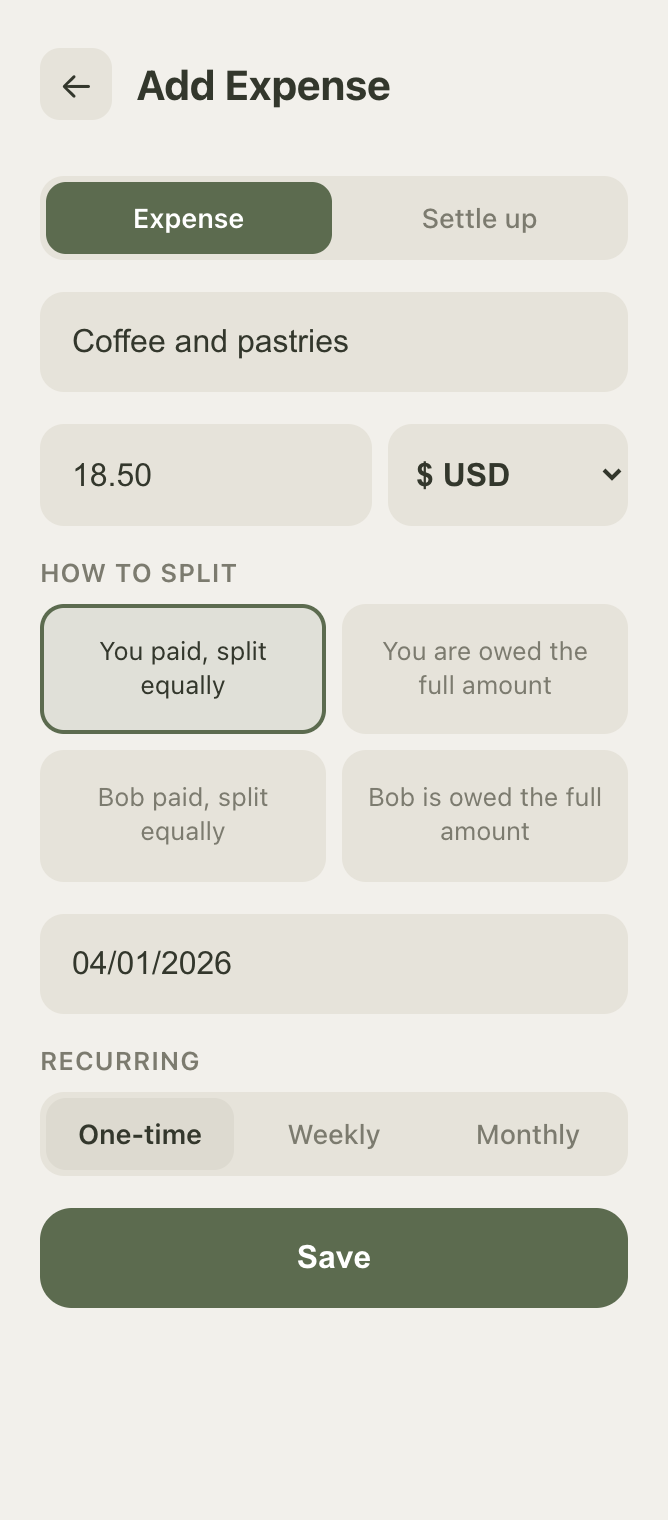
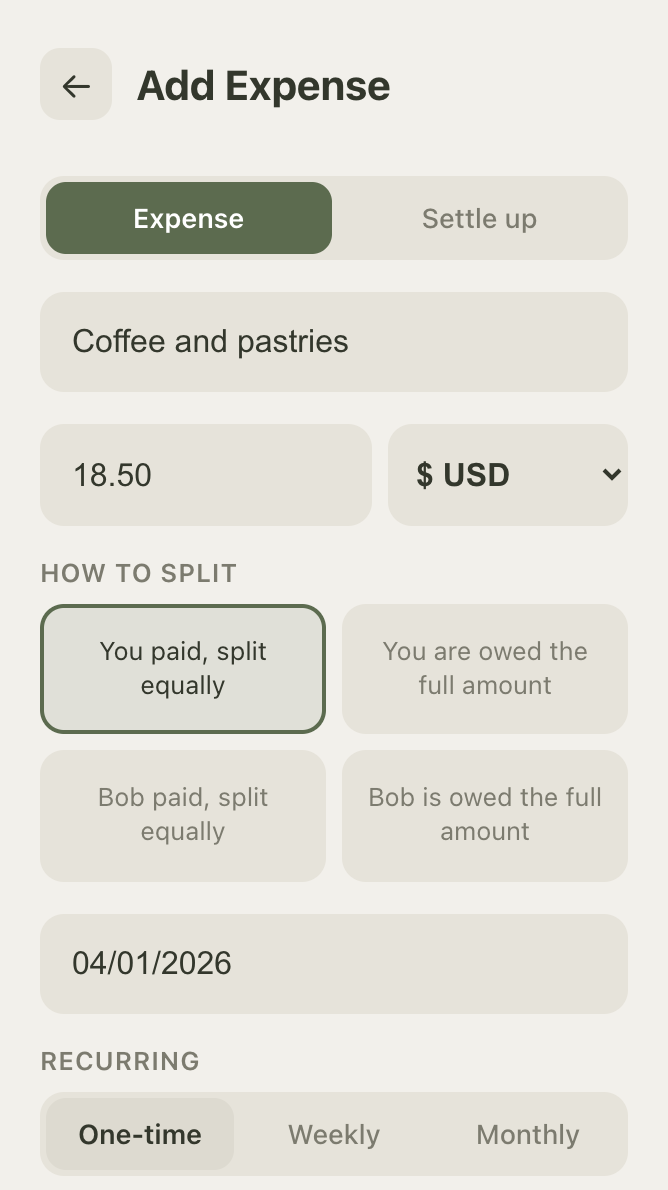
docs: update README screenshots — duel replaces second insights, crop to 9:16
- Replace insights2 with new Weekly Duel (RPS) screenshot
- Reorder: dashboard, duel, add-expense, insights
- Crop all screenshots from 668×1520 to 668×1190 (proper phone ratio)
- Fix dashboard label: "Alice owes Bob" → "You owe Bob"
- Fix duel screenshot: rock selected, user wins (rock beats scissors)

diff --git a/README.md b/README.md
@@ -5,12 +5,12 @@ A shared expense tracker for two people. Track who owes what, split costs, settl
 <p align="center">
   <img src="assets/screenshots/dashboard.png" alt="Dashboard" width="240">
   &nbsp;&nbsp;
-  <img src="assets/screenshots/add-expense.png" alt="Add expense" width="240">
+  <img src="assets/screenshots/duel.png" alt="Weekly Duel — Rock Paper Scissors" width="240">
 </p>
 <p align="center">
-  <img src="assets/screenshots/insights.png" alt="Insights — spending by category" width="240">
+  <img src="assets/screenshots/add-expense.png" alt="Add expense" width="240">
   &nbsp;&nbsp;
-  <img src="assets/screenshots/insights2.png" alt="Insights — where you spend and fun stats" width="240">
+  <img src="assets/screenshots/insights.png" alt="Insights — where you spend and fun stats" width="240">
 </p>
 
 ## Features
